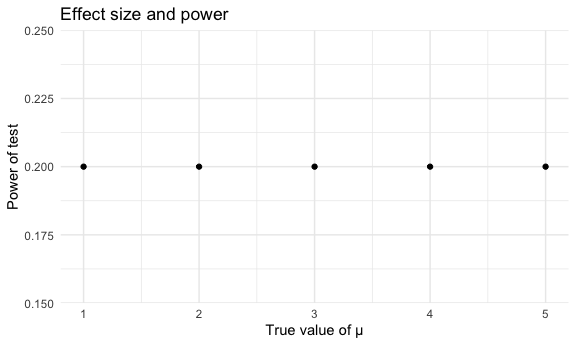
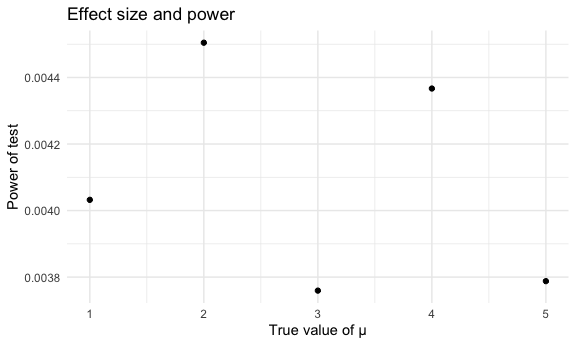
changed power and effect size plot, added reasoning for third plot in problem 3

diff --git a/p8105_hw5_dmh2228.md b/p8105_hw5_dmh2228.md
@@ -452,12 +452,17 @@ Create plots.
 Power and effect size plot.
 
 ``` r
-power_plot_df = 
+power_plot = 
   results_df |>
   select(population_mean, estimate, p.value) |>
-  group_by(population_mean) |>
-  summarize(n_obs = n()) |>
-  mutate(props = round(n_obs / sum(n_obs), 2)) |>
+  mutate(
+    reject_null = if_else(p.value < 0.05, 1, 0)
+  ) |>
+  group_by(population_mean, reject_null) |>
+  summarize(
+    n_obs = n()) |>
+  mutate(props = sum(reject_null) / n_obs) |>
+  filter(reject_null == 1) |>
   ggplot(aes(x = population_mean, y = props)) +
   geom_point() +
   labs(
@@ -465,19 +470,23 @@ power_plot_df =
     x = "True value of μ",
     y = "Power of test"
   )
+```
 
-power_plot_df
+    ## `summarise()` has grouped output by 'population_mean'. You can override using
+    ## the `.groups` argument.
+
+``` r
+power_plot
 ```
 
 <img src="p8105_hw5_dmh2228_files/figure-gfm/unnamed-chunk-13-1.png" width="90%" />
 
-There is no association between effect size and power. The power of the
-test stays the same across true values of mu.
+There is no clear association between effect size and power.
 
 Average estimate of μ and true value of μ
 
 ``` r
-estimate_plot_df =
+estimate_plot =
   results_df |>
   group_by(population_mean) |>
   summarize(
@@ -491,7 +500,7 @@ estimate_plot_df =
     y = "Average estimate of μ"
   )
 
-estimate_plot_df
+estimate_plot
 ```
 
 <img src="p8105_hw5_dmh2228_files/figure-gfm/unnamed-chunk-14-1.png" width="90%" />
@@ -499,7 +508,7 @@ estimate_plot_df
 Only in samples for which the null was rejected.
 
 ``` r
-rejected_null_plot_df =
+rejected_null_plot =
   results_df |>
   filter(p.value < 0.05) |>
   group_by(population_mean) |>
@@ -514,10 +523,11 @@ rejected_null_plot_df =
     y = "Average estimate of μ"
   )
 
-rejected_null_plot_df
+rejected_null_plot
 ```
 
 <img src="p8105_hw5_dmh2228_files/figure-gfm/unnamed-chunk-15-1.png" width="90%" />
 
 The sample average of μ̂ across tests for which the null is rejected
-approximately equal to the true value of μ.
+approximately equal to the true value of μ likely due to the high power
+of the test.
